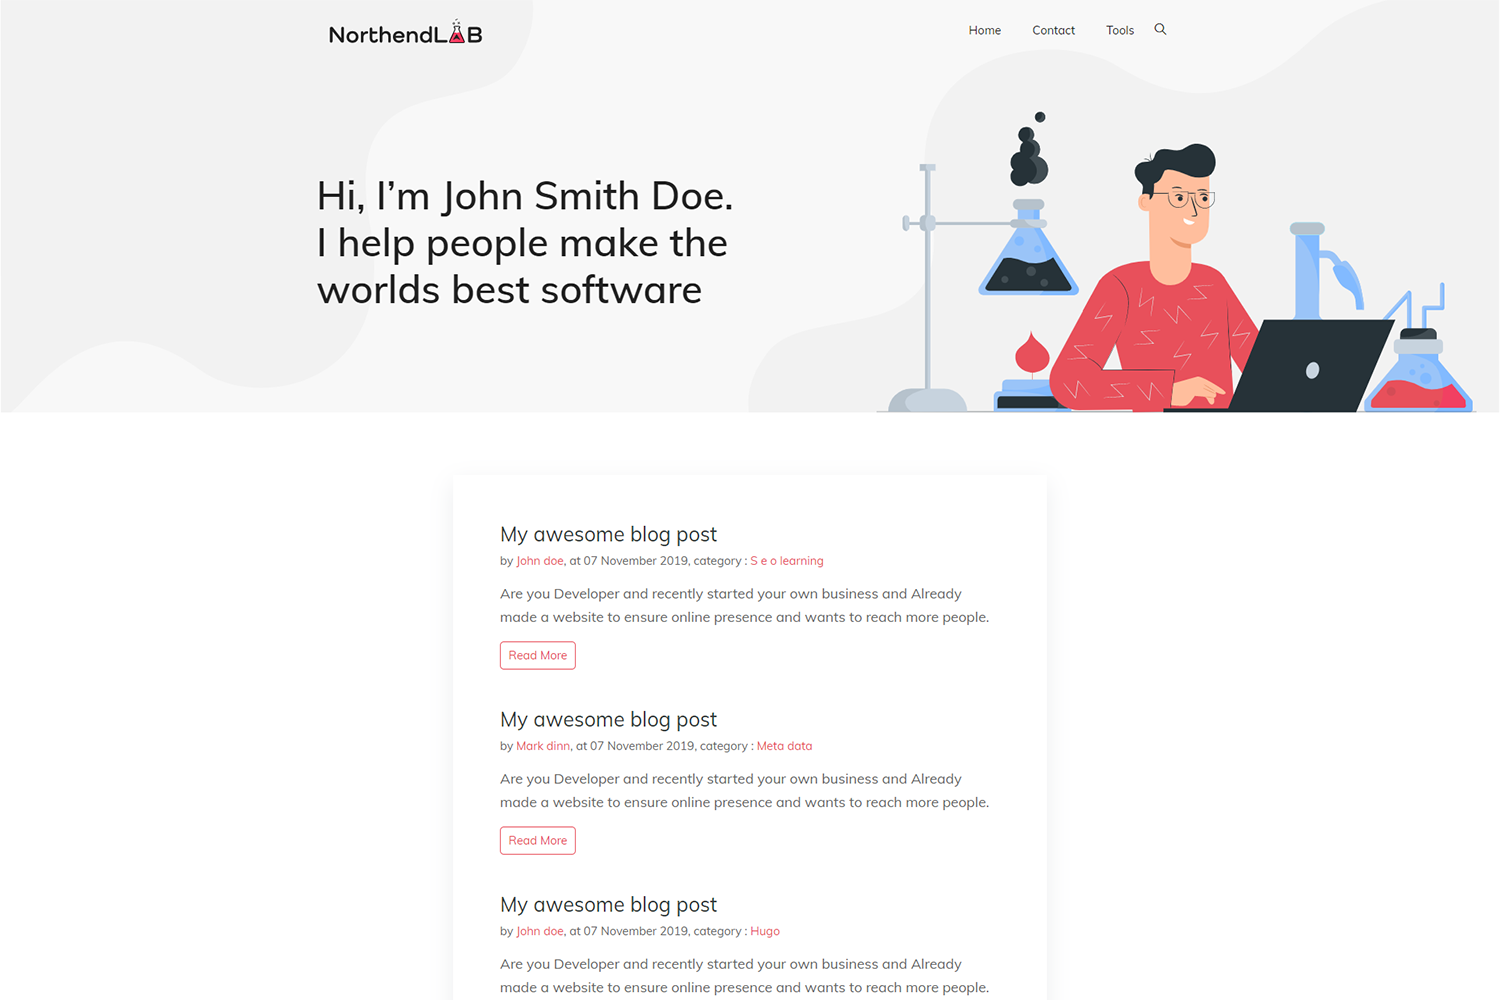
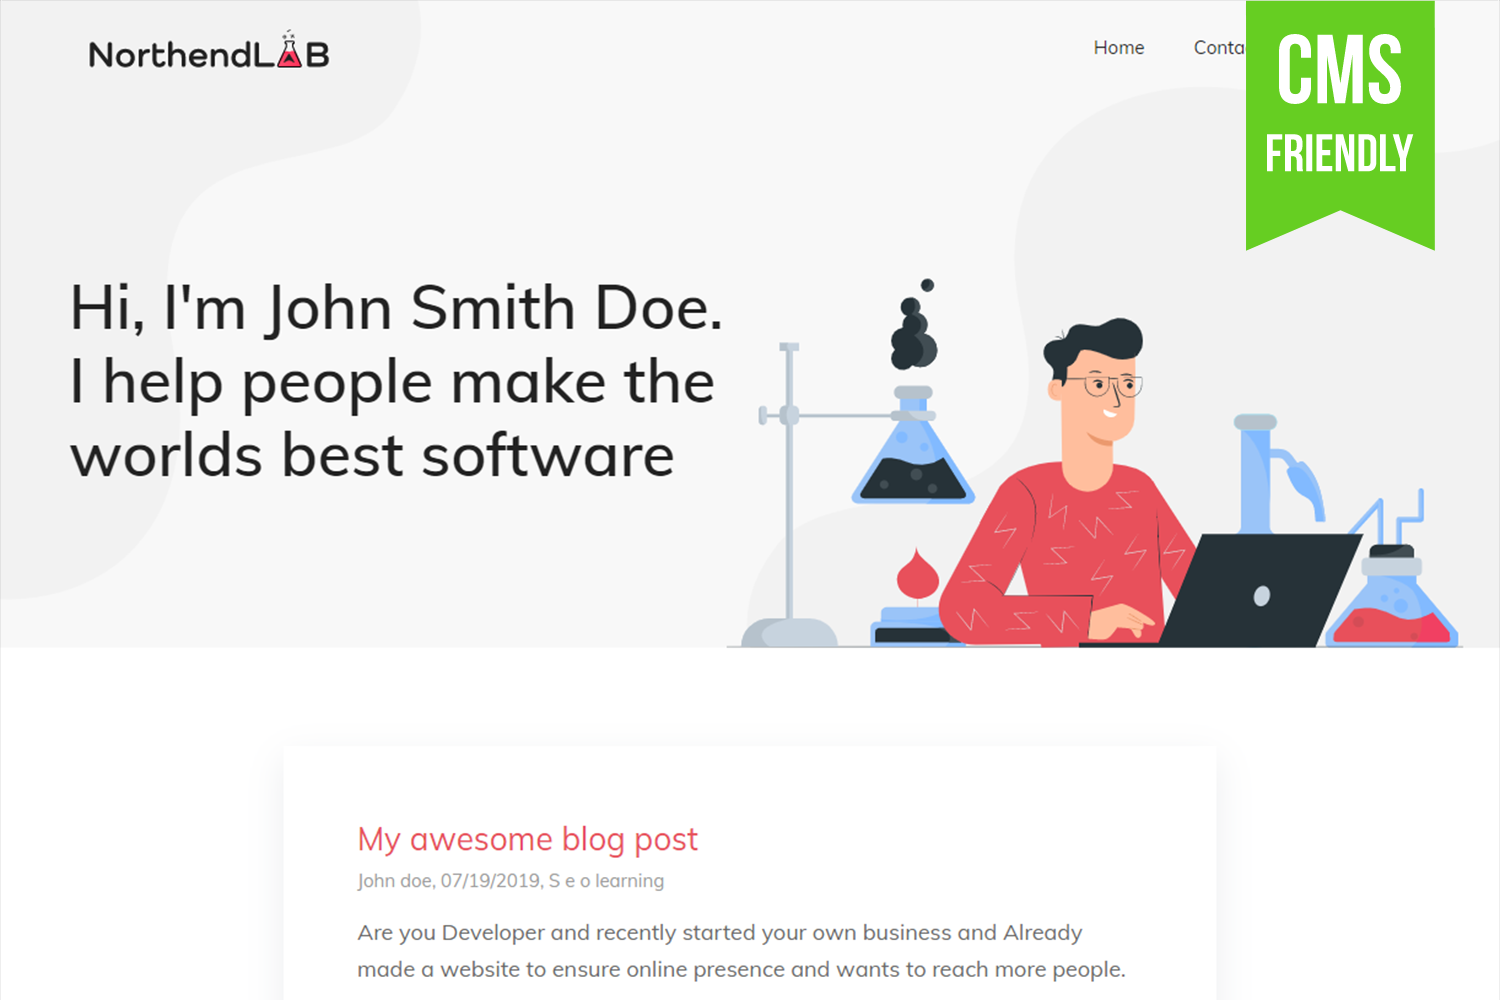
modified readme file and screenshot

diff --git a/README.md b/README.md
@@ -1,13 +1,30 @@
-<div align="center">
-<h1><a href="https://gethugothemes.com/">Northendlab</a></h1>
-<img src="https://user-images.githubusercontent.com/37659754/69005981-6d5d7b80-0953-11ea-83a2-b1f93a7e5cd5.gif" alt="screenshot" width="100%">
-</div>
+# Easy Setup (Hugo + Netlify + Forestry)
+Build your website with northendlab hugo theme by following this easy steps (No Coding Required)
 
-Northendlab is a personal blog template, but it has multiple author facility. It also has category page for filtering eatch category post. It has builtin search facility. It could be use any type of blog template, specially technical blog template. We use this template for creating a real technical blog site. This site live url is [Northendlab](https://northendlab.com/).
+<a href="https://bit.ly/meghna-hugo" target="_blank" title="meghna hugo installation" rel="nofollow"><img width="100%" src="https://user-images.githubusercontent.com/37659754/70844354-4028be00-1e6a-11ea-8d84-02e9a25e7db8.png"></a>
 
-It also has [forestry static cms](https://forestry.io/) settings and front-matter included, so user can easily edit, replace or create pages. Not a single line of code nowledge needed.
+In this tutorial we will show you to make your website live without buying any hosting and touching a single line of code. We made this tutorial based on [meghna hugo](https://github.com/themefisher/meghna-hugo) but you can setup everithing like this.
 
-**The images are only for demonstration purpose, Please don't use those images.**
+### What you need !!
+
+1. Git acccount (Ex: Github, Gitlab etc ) . In our case we use github.
+2. [Netlify](https://bit.ly/netlify-account) account to host files and add custom domain .
+3. [Forestry](https://bit.ly/forestry-account) account to maintain whole project without code.
+
+
+### Step 1 : Fork or Clone repository
+
+First we will fork this [northendlab hugo](https://github.com/themefisher/northendlab-hugo) template.
+
+### Step 2 : Add your repository in Forestry
+
+Go to your [forestry](https://bit.ly/forestry-account)  account and click on `import your site now`. declare your config.toml file [`exampleSite`] and fill up basic settings . Mark everything is done then go to configuration to change the base url . You can put any url but this have to similar as netlify . So for now put a name which you are going to put in netlify as netlify subdomain.
+
+### Step 3 : Setup and host website with Netlify
+
+Here comes the last step . Go to your [netlify](https://bit.ly/netlify-account) account and click add new site . Choose your git repository to import your website in netlify .  And now you can see the forked `northendlab hugo` theme. select it and follow the steps. Then go to `site settings` for change the site name and put your subdoamin name here what you puted on forestry as base url. save it and go to `deploy` from top menu, Wait a while and click on `site preview` or just simply go to the subdomain you puted as base url. **BOOM! Your site is live.** Now you can go to forestry and add, remove or customize every setting and content.
+
+> If you face any issue regarding the installation feel free to onen [open a new issue](https://github.com/themefisher/northendlab-hugo/issues)
 
 ## Table of Contents
 
@@ -24,16 +41,18 @@ It also has [forestry static cms](https://forestry.io/) settings and front-matte
 |---|---|---|---|
 | ![author](https://user-images.githubusercontent.com/37659754/69005991-8cf4a400-0953-11ea-8dd7-b9a7819803a4.png) | ![contact](https://user-images.githubusercontent.com/37659754/69005990-8bc37700-0953-11ea-8189-3e8cb62b45bd.png) | ![search](https://user-images.githubusercontent.com/37659754/69005992-8cf4a400-0953-11ea-8349-e4f55ae123a5.png) | ![tools](https://user-images.githubusercontent.com/37659754/69005993-8d8d3a80-0953-11ea-965a-d30c3f71dfa2.png) |
 
+**The images are only for demonstration purpose, Please don't use those images.**
+
 [Live Demo](http://demo.themefisher.com/northendlab-hugo/).
 
-## Installation
 
-Navigate to your themes folder in your Hugo site and use the following commands:
+## Installation
+At the top we have shown an easy hugo installation. but still if you think you want to go with the traditional way then use the following commands:
 
 ```
-$ mkdir themes
-$ cd themes
 $ git clone git@github.com:themefisher/northendlab-hugo.git
+$ cd northendlab-hugo/exampleSite/
+$ hugo server --themesDir ../..
 ```
 
 ## Main features
